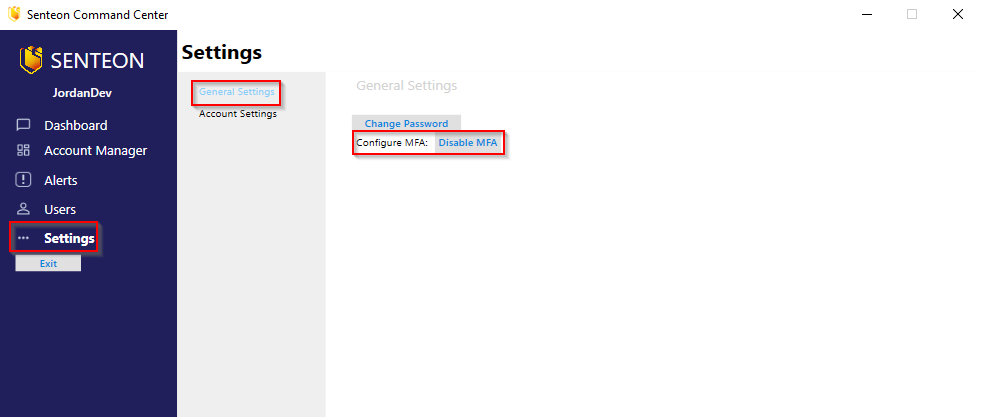
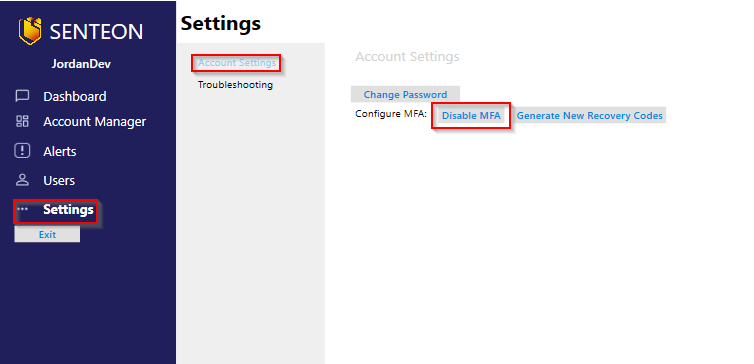
1.4.1.5 Update

diff --git a/docs/endpointconfiguration.md b/docs/endpointconfiguration.md
@@ -38,37 +38,27 @@ When Endpoints are selected for Evaluation, one of the following options can be 
 
 <img src="../images/EvaluationPrompt.PNG" width="750">
 
+If `Create new Group and Evaluate` is selected, the "Group Creation Form" will open and guide users through the process which includes answering a few Organizational/Cultural questions that Senteon cannot evaluate independently due to the nature of the questions.
+
+  > *NOTE: More information about this form and related settings can be found [here](settings.md#general-settings_1)*
+
 ### Phase 2: Guided Setup
 
 After a Senteon Agent/Endpoint finishes Evaluation, the Agent Status will change to `Ready for Setup` and it will appear in the `Endpoint Setup` page under "Ready for Setup"
 
-<img src="../images/readyforsetup.PNG" width="750">
+<img src="../images/readyforsetup.png" width="550">
 
-Clicking the `Finish Setup` button next to an Endpoint will launch the Guided Setup Wizard which walks you through any decisions that need to be made due to blocking/disruption factors. This can range from technical factors such as out-of-date authentication protocols to organizational/cultural factors that Senteon cannot be aware of in a vacuum.
+Clicking the `Finalize` button next to an individual Endpoint (or `Finalize Group` if you wish to finish setup for multiple at once) will launch the Guided Setup Wizard which walks you through any decisions that need to be made due to blocking/disruption factors. This can range from technical factors such as out-of-date authentication protocols to organizational/cultural factors that Senteon cannot be aware of in a vacuum.
 
 Example Wizard Page:  
-<img src="../images/wizardpage.PNG" width="750">
+<img src="../images/wizardpage.PNG" width="550">
 
-#### Account-wide Guided Setup Decisions
+#### (Not Recommended) Skipping Guided Setup Wizard
 
-Some Wizard questions will have a warning such as **"Warning: Once this decision has been made, it will be set for all systems configured through Senteon after this"** which indicates that Senteon will only ask you to make the decision once for all Endpoints in the Managed Account. The decision can be adjusted for the setup of subsequent Endpoints in the following location:
-
-`Managed Account Console > Settings > Account-wide Guided Setup Decisions`
-
-More information can be found [here](settings.md#general-settings_1)
-
-#### Guided Setup for Multiple Endpoints
-
-Guided Setup can only be completed for one (1) endpoint at a time in this version since each Senteon Agent performs a unique evaluation of its Endpoint. If you would like to setup more than one at a time, Senteon recommends the following work-arounds: 
-
-1) Complete the process for the first Endpoint in the Group in order to finalize the Group's Applied/Target Configuration Set
-
-2a) (Option 1) Note down your decisions and complete the Guided Setup Wizard again for subsequent Endpoints
-
-2b) (Option 2) Override the Setup Wizard for the subsequent Endpoints by choosing the option at the start of the Wizard to skip the questions/decisions and apply the Group's Applied/Target Configuration Set
+If for some reason you wish to skip the Guided Setup Wizard after the Evaluation Phase you can choose the option at the start of the Wizard to skip the questions/decisions and apply the Group's Applied/Target Configuration Set.
   > *Note: Senteon cannot gurantee that this will not cause usability or networking issues for these Endpoints since warnings that would be provided in the Wizard will be bypassed.*
 
-<img src="../images/Skip Guided Setup Wizard.png" width="750">
+<img src="../images/SkipGuidedSetupWizard.png" width="750">
 
 ## Configuration Sets
 
@@ -289,16 +279,25 @@ Senteon Users can create new groups or modify existing ones in a number of ways 
 
 1) Navigate to `Managed Account Console > Endpoints > Groups` and click the `Create New Group` button
 
-2) Enter a name/identifier for the Group
+2) Provide answers on the Group Creation Form and whether or not to save the choices for future groups
 
-3) (Optional) Customize the Applied/Target Configuration Set by using the `Set` buttons next to each setting
+<img src="../images/NewGroupDecisionForm.png" width="750">
 
-4) (Optional) Add Endpoints to the Group if you wish to move them
+  > *NOTE: More information about this form and related settings can be found [here](settings.md#general-settings_1)*
+
+  > *NOTE: If `Save settings for future groups` is selected, the saved choices can be viewed and modified here: `Managed Account Console > Settings > Account-wide Guided Setup Decisions`*
+
+3) Enter a name/identifier for the Group
+
+4) (Optional) Customize the Applied/Target Configuration Set by using the `Set` buttons next to each setting
+
+5) (Optional) Add Endpoints to the Group if you wish to move them
   > *NOTE: NOT RECOMMENDED UNLESS YOU WISH BYPASS INTELLIGENT SETUP*
 
-5) Click the `Create Group` button
+6) Click the `Create Group` button
   
 <img src="../images/newGroup.PNG" width="750">  
+
 
 #### Creating Exception Groups
 

diff --git a/docs/settings.md b/docs/settings.md
@@ -45,7 +45,7 @@ Location: `Managed Account Console > Settings`
 ### General Settings
 
 ---
-#### Configuration Drift Management
+#### Configuration Drift Response
 
 This setting defines Senteon's reponse to configuration drift on all Endpoints registered to the Managed Account.
   
@@ -58,8 +58,13 @@ This setting defines Senteon's reponse to configuration drift on all Endpoints r
 ---
 #### Account-wide Guided Setup Decisions
 
-This category displays the chosen values for security configurations that are reliant on an understanding of organizational/company culture. These values are the result of decisions made during Guided Setup. Once the decisions have been made for the first time, Senteon will use the decisions during the setup of all subsequent endpoints within the Managed Account instead of asking the Senteon User every time. 
+This category displays the chosen values for security configurations that are reliant on an understanding of organizational/company culture. These values are the result of decisions made when a new Group is created. If a user chooses the option to save their decisions when filling out the New Group Creation Form, those values are stored here. The target values can be modified here if one wishes to change the default decision.
 
-The target values can be modified here if one wishes to change a decision. After adjustment, Senteon will use the updated target values during the setup of all subsequent endpoints, but it will not affect any active endpoints that have been setup previously.
+Senteon will use the choices to auto-populate default answers when creating a new Group in the Managed Account, but users will have the ability to modify the values if they choose to do so. It will also not affect any active Endpoints or Groups that have already been set up.
+
+---
+#### Report White Labeling
+
+This setting determines whether or not you would like to white label reports generated by Senteon. If Enabled, Senteon will prompt you to select an image file to use for white-labeling purposes whenever a report is generated.
 
 ---

diff --git a/docs/troubleshooting.md b/docs/troubleshooting.md
@@ -22,7 +22,7 @@ Event Logs for Senteon Agent can be found in Windows Event Viewer under:
 
 If Command Center is not working as expected, often times resetting a Managed Account's database will force a resyncronization and solve the problem.
 
-1. In the Master Account Console, navigate to `Settings > Account Settings`
+1. In the Master Account Console, navigate to `Settings > Troubleshooting`
 
 2. Select the Managed Account that is having issues and click the `Reset Database` button
 

diff --git a/docs/usersandpermissions.md b/docs/usersandpermissions.md
@@ -82,7 +82,7 @@ When logging in as user for the first time, you will be prompted to create a new
 
 2) Navigate to General Settings and click `Enable MFA`
 
-3) Open your Authenticator App and scan the QR code, then close the window
+3) Open your Authenticator App and scan the QR code, then click the `Ok` button
 
 > *Alternatively you can enter the secret key manually.*
 
